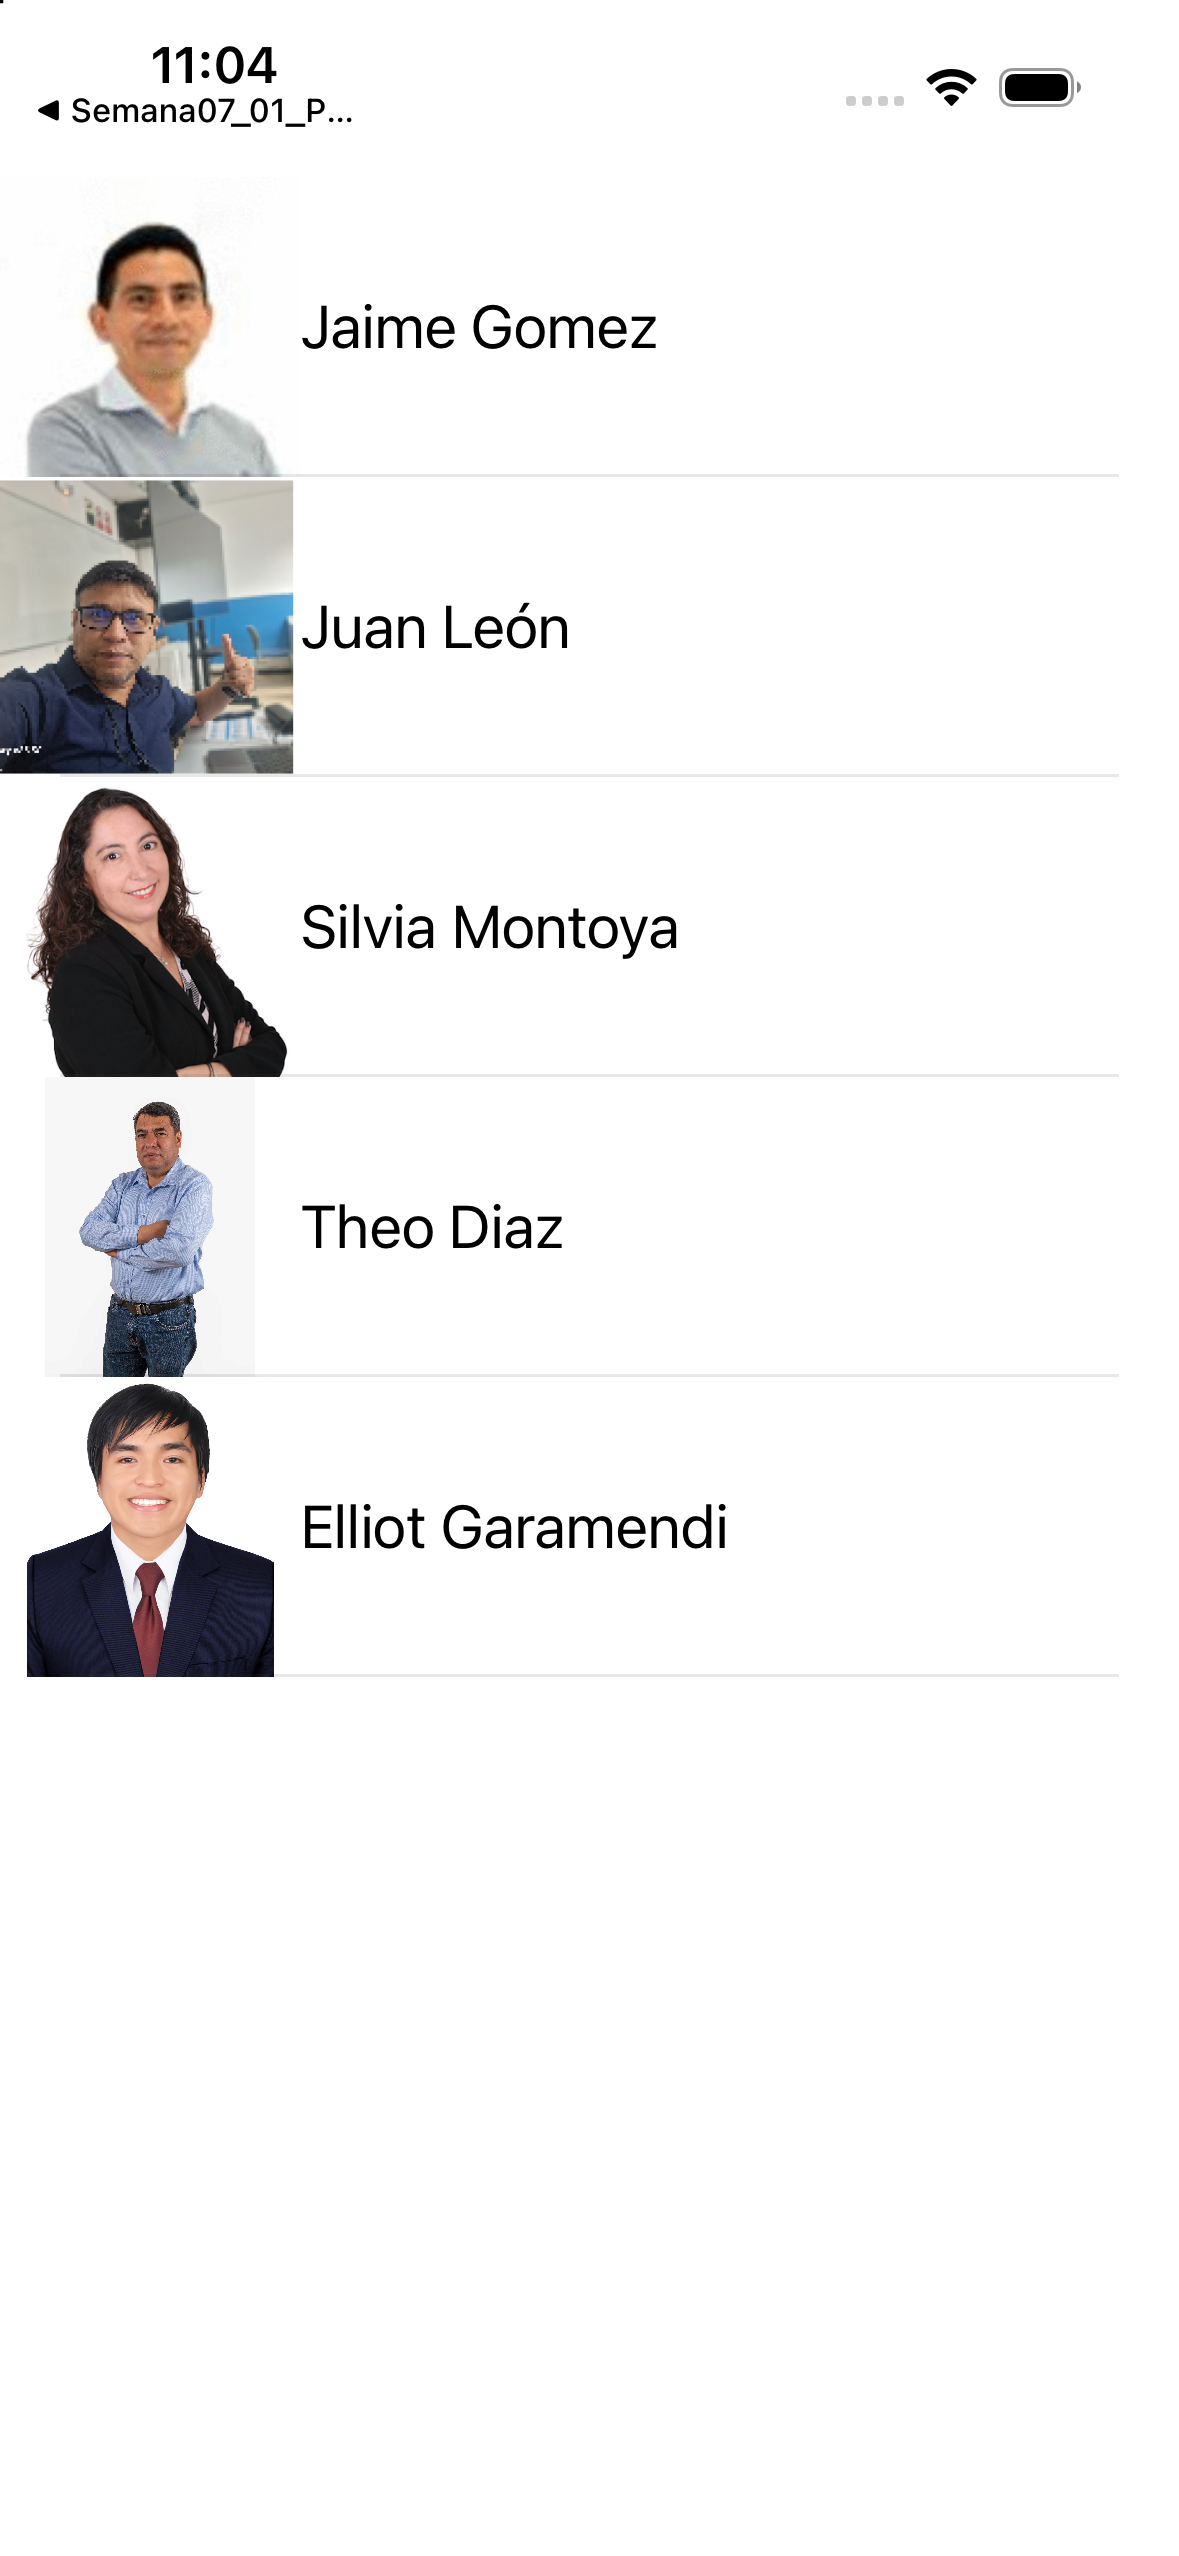
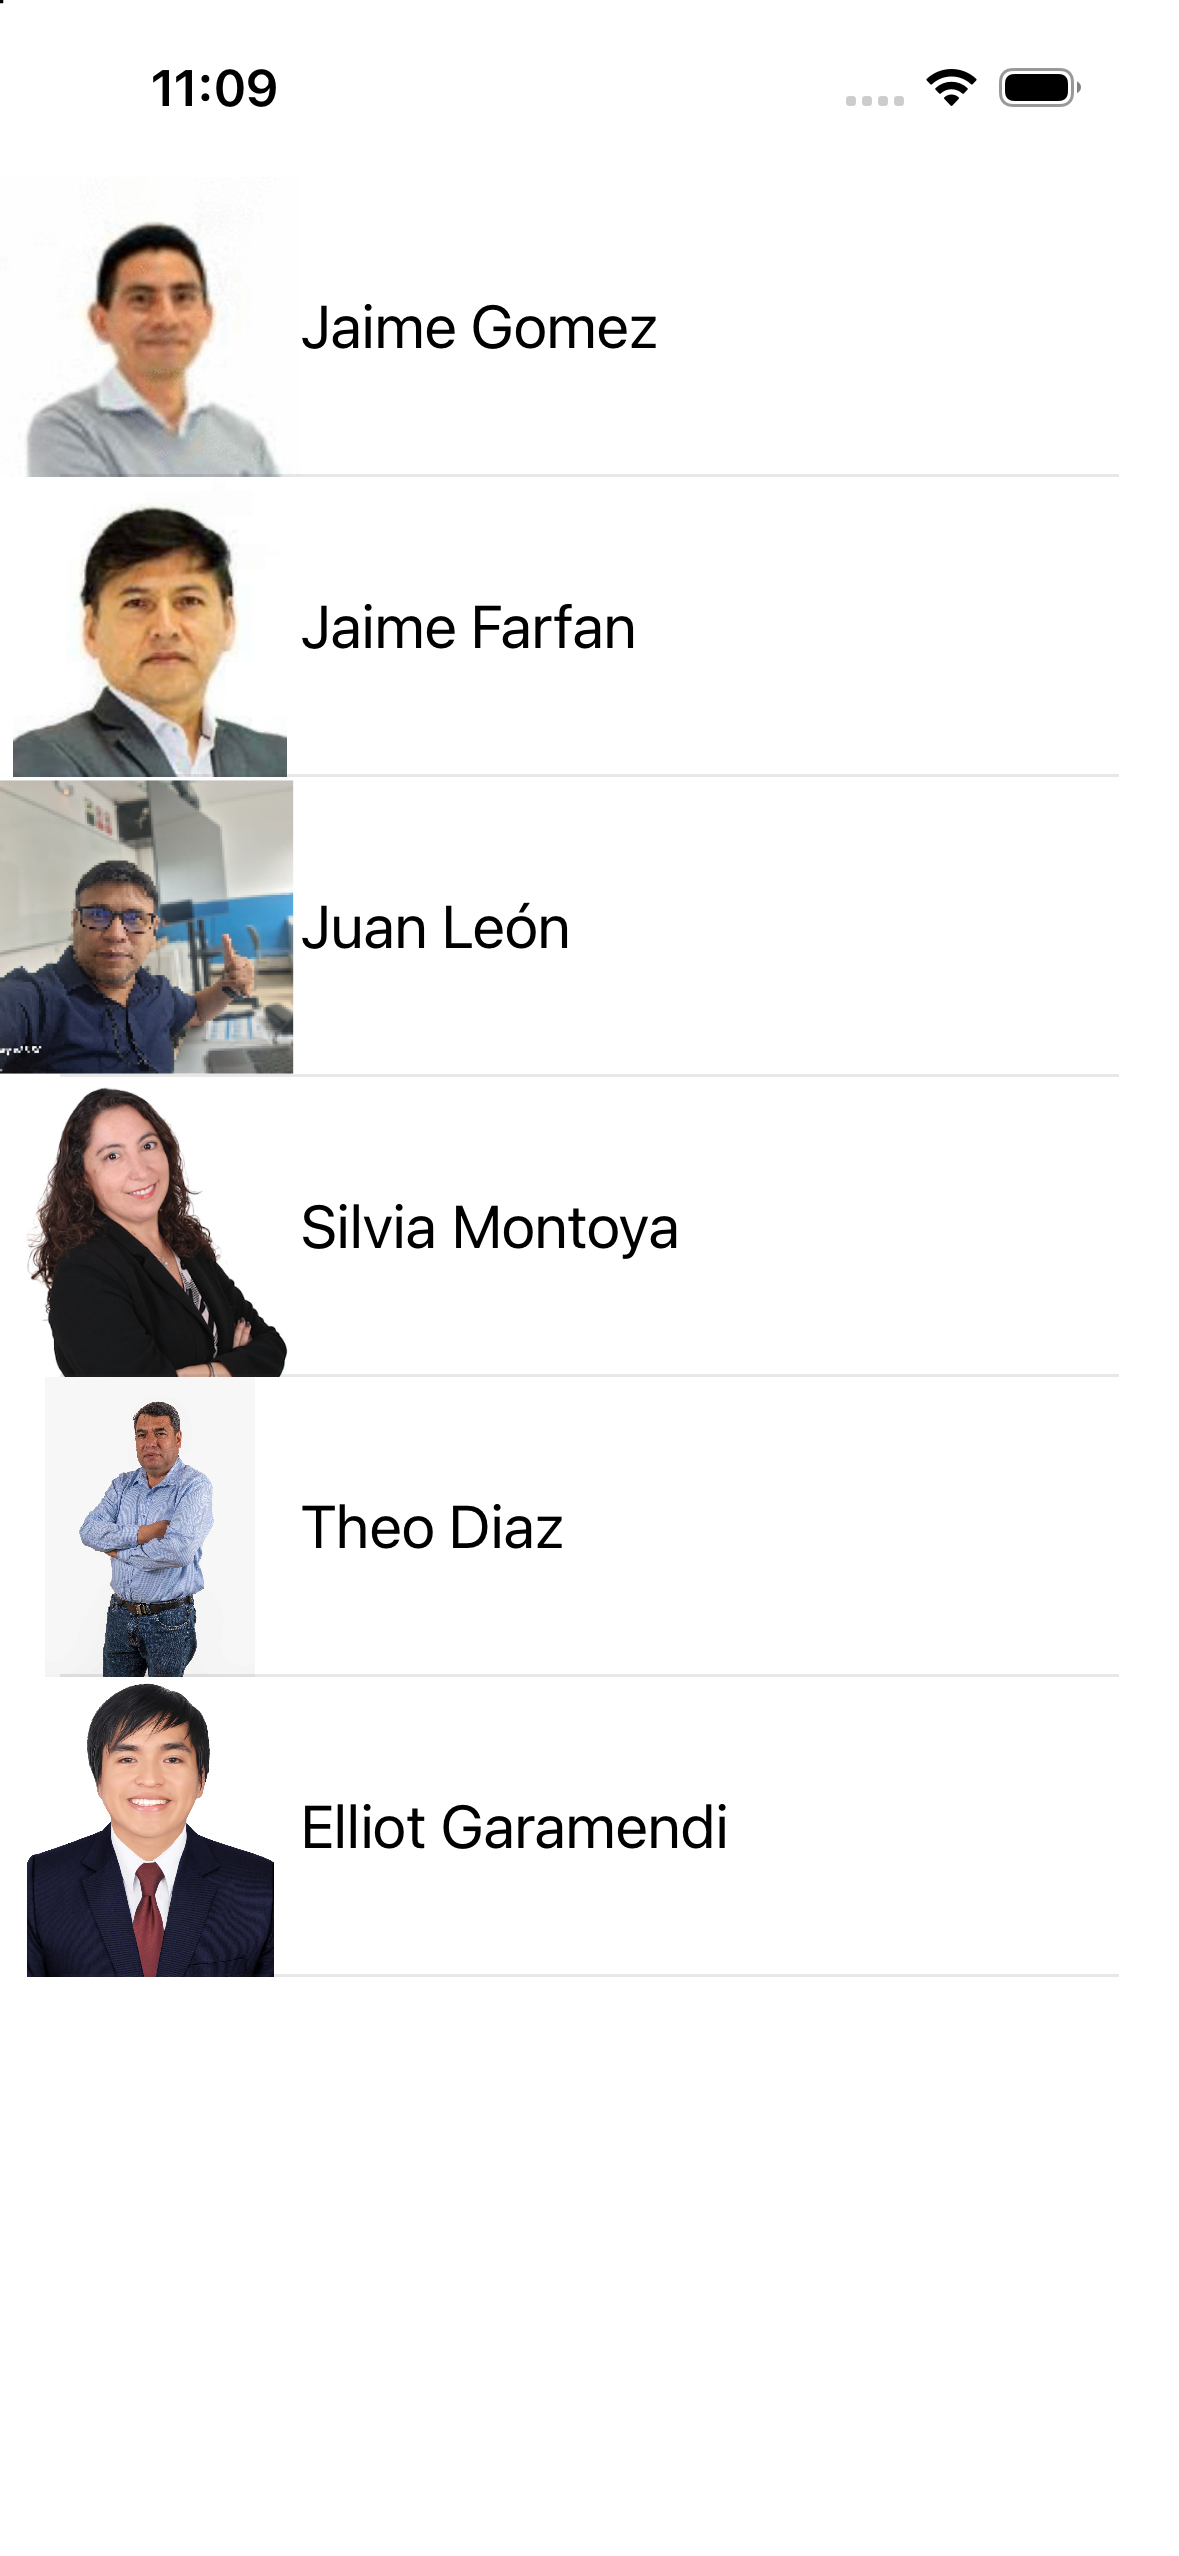
fix(semana-07): incluir a Jaime Farfan en la tabla personalizada

diff --git a/SEMANA_07/Semana07_02_Personas/Semana07_02_Personas/ViewController.swift b/SEMANA_07/Semana07_02_Personas/Semana07_02_Personas/ViewController.swift
@@ -4,8 +4,8 @@ class ViewController: UIViewController, UITableViewDelegate, UITableViewDataSour
     @IBOutlet weak var tableView: UITableView!
 
     // Nombres del ejemplo; las fotografías son las que se agregaron a Assets.
-    let personasArreglo = ["Jaime Gomez", "Juan León", "Silvia Montoya", "Theo Diaz", "Elliot Garamendi"]
-    let personasImagenarreglo = ["jaime", "leon", "montoya", "Teobaldo-Diaz-Espinoza", "garamendi"]
+    let personasArreglo = ["Jaime Gomez", "Jaime Farfan", "Juan León", "Silvia Montoya", "Theo Diaz", "Elliot Garamendi"]
+    let personasImagenarreglo = ["jaime", "farfan", "leon", "montoya", "Teobaldo-Diaz-Espinoza", "garamendi"]
 
     func tableView(_ tableView: UITableView, numberOfRowsInSection section: Int) -> Int {
         return personasArreglo.count

diff --git a/SEMANA_07/README.md b/SEMANA_07/README.md
@@ -29,7 +29,7 @@ El segundo proyecto corresponde a la sección de personalización de la guía, p
 - Clase `PersonasTableViewCell`, subclase de `UITableViewCell`.
 - Imagen y label conectados a los outlets `PersonaImagen` y `personaNombre` de la celda.
 - `dataSource`, `delegate` y outlet de la tabla conectados al `ViewController`.
-- Arreglos de nombres e imágenes para los cinco docentes del ejemplo. Se reutilizan las fotos que proporcionaste, con sus nombres originales en Assets.
+- Arreglos de nombres e imágenes para los cinco docentes del ejemplo y Jaime Farfan, añadido a solicitud del estudiante. Se reutilizan las fotos que proporcionaste, con sus nombres originales en Assets.
 - Constraints de los cuatro bordes de la tabla a la Safe Area con constante 0. Los bordes de los controles de la celda también usan 0; la imagen tiene ancho 100 para reservar su columna.
 - `didSelectRowAt` muestra una alerta con el docente seleccionado y botón OK.
 
